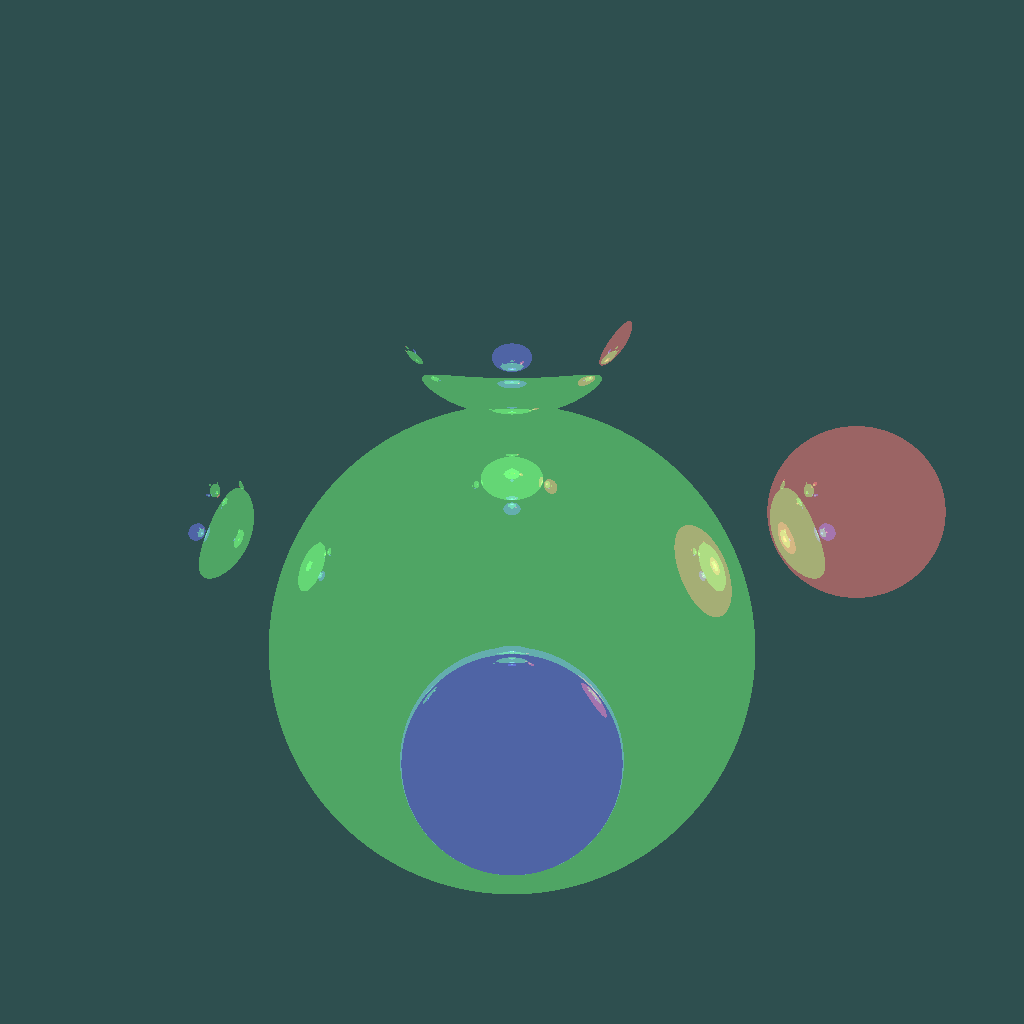
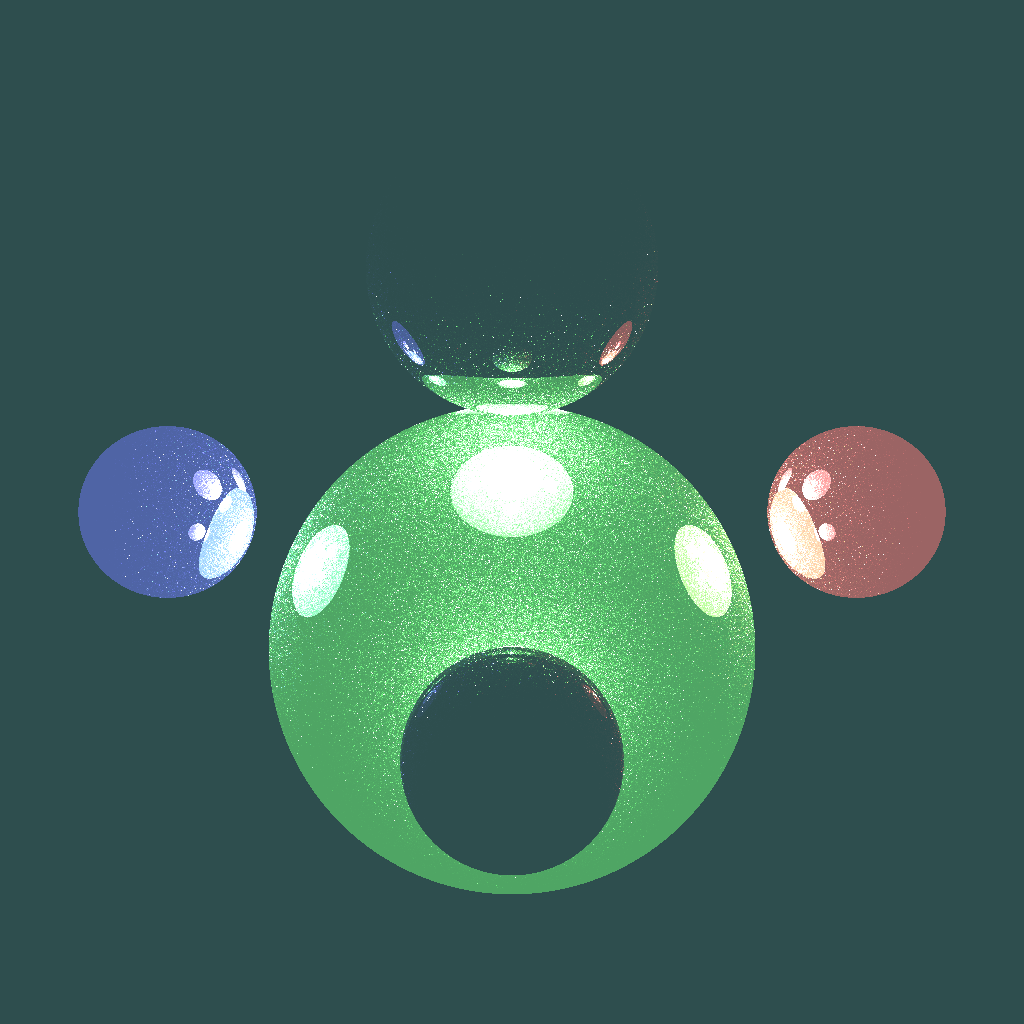
diffuse path tracing with broken emission

diff --git a/core/src/shade.rs b/core/src/shade.rs
@@ -5,15 +5,17 @@ use palette::{LinSrgb};
 pub struct Object {
     pub geo: Sphere,
     pub emission: LinSrgb,
+    pub reflectivity: f32,
 }
 
 impl Object {
-    pub fn new(x: f64, y: f64, z: f64, r: f64, emission: LinSrgb) -> Object {
+    pub fn new(x: f64, y: f64, z: f64, r: f64, emission: LinSrgb, reflectivity: f32) -> Object {
         use ::Point3;
 
         Object {
             geo: Sphere::new(Point3::new(x, y, z), r),
             emission,
+            reflectivity,
         }
     }
 }
@@ -34,8 +36,23 @@ pub fn reflect(input: Unit<Vector3<f64>>, half: Unit<Vector3<f64>>) -> Unit<Vect
     Unit::new_unchecked(input.unwrap() - 2. * (input.dot(half.as_ref())) * half.as_ref())
 }
 
+pub fn cosine_weighted_hemi<R: Rng>(rng: &mut R) -> (f64, Unit<Vector3<f64>>) {
+    use std::f64::consts::PI;
+
+    let u: f64 = rng.gen_range(0., 1.);
+    let r = u.sqrt();
+    let phi = rng.gen_range(0., 2. * PI);
+
+    let x = r * phi.cos();
+    let y = r * phi.sin();
+
+    (r, Unit::new_unchecked(Vector3::new(x, y, (1. - u).sqrt())))
+}
+
 impl World {
-    pub fn sample(&self, ray: Ray, limit: usize) -> (LinSrgb, f64) {
+    pub fn sample<R: Rng>(&self, ray: Ray, limit: usize, rng: &mut R) -> (LinSrgb, f32) {
+        use std::f32::consts::PI;
+
         let hit = self.objects.iter()
             .map(|o| o.geo.cast(ray, o))
             .filter_map(|i| i.filter(|i| i.t > self.margin))
@@ -48,12 +65,31 @@ impl World {
             (None, _) => (self.ambient, 1.),
             (Some(i), 0) => (i.data.emission, 1.),
             (Some(i), _) => {
-                let x = reflect(ray.dir, i.halfway());
-                let p_x = 1.;
+                let x;
+                let p_x;
+                let f_prob;
 
-                let (prior_f, prior_p) = self.sample(Ray::new(ray.origin + i.t * ray.dir.unwrap(), x), limit - 1);
+                let refl = i.data.reflectivity;
+                let not_refl = 1. - refl;
+                if refl > rng.gen_range(0., 1.) {
+                    x = reflect(ray.dir, i.halfway());
+                    p_x = refl;
+                    f_prob = refl;
+                } else {
+                    let (cos_theta, cwh) = cosine_weighted_hemi(rng);
+                    x = Unit::new_unchecked(i.surface() * cwh.unwrap());
+                    let cos_theta_over_pi = cos_theta as f32 / PI;
+                    p_x = not_refl * cos_theta_over_pi;
+                    f_prob = not_refl * cos_theta_over_pi;
+                }
 
-                let f = prior_f + i.data.emission;
+                let (prior_f, prior_p) = self.sample(
+                    Ray::new(ray.origin + i.t * ray.dir.unwrap(), x),
+                    limit - 1,
+                    rng,
+                );
+
+                let f = (prior_f + i.data.emission) * f_prob;
                 let p = p_x * prior_p;
                 (f, p)
             }

diff --git a/src/main.rs b/src/main.rs
@@ -18,12 +18,12 @@ fn main() -> Result<(), Error> {
 
     let world = World {
         objects: vec![
-            Object::new(0., -2., 0., 3., LinSrgb::new(0.05, 0.3, 0.05)),
-            Object::new(0., 3., 0., 1.5, LinSrgb::new(0., 0., 0.)),
-            Object::new(4., 0., 0., 1., LinSrgb::new(0.3, 0.05, 0.05)),
-            Object::new(-4., 0., 0., 1., LinSrgb::new(0., 0., 0.)),
-            Object::new(0., 0., 4., 1., LinSrgb::new(0.05, 0.05, 0.3)),
-            Object::new(0., 0., -4., 1., LinSrgb::new(0., 0., 0.)),
+            Object::new(0., -2., 0., 3., LinSrgb::new(0.05, 0.3, 0.05), 0.75),
+            Object::new(0., 3., 0., 1.5, LinSrgb::new(0., 0., 0.), 0.75),
+            Object::new(4., 0., 0., 1., LinSrgb::new(0.3, 0.05, 0.05), 0.9),
+            Object::new(-4., 0., 0., 1., LinSrgb::new(0.05, 0.05, 0.3), 0.9),
+            Object::new(0., 0., 4., 1., LinSrgb::new(0., 0., 0.), 0.1),
+            Object::new(0., 0., -4., 1., LinSrgb::new(0., 0., 0.), 0.1),
         ],
         ambient: colors::DARKSLATEGREY.into_format::<f32>().into_linear(),
         margin: 0.00001,
@@ -35,6 +35,8 @@ fn main() -> Result<(), Error> {
 
     let mut frames = Vec::with_capacity(FRAMENUM );
     (0..FRAMENUM).into_par_iter().map(|index| {
+        let mut rng = rand::thread_rng();
+
         let mut img = ImgVec::new(vec![Srgb::new(0, 0, 0); size * size], size, size);
         let angle = 2. * PI * (index as f64 / FRAMENUM  as f64);
         let cam = PerspectiveCamera::new(
@@ -51,13 +53,17 @@ fn main() -> Result<(), Error> {
         {
             let mut raster = RasterLayer::new(img.as_mut());
             for (p, v) in raster.pixels_mut() {
-                let ray = match cam.look(p) {
-                    Some(r) => r,
-                    None => continue,
-                };
-                let (mut f, p) = world.sample(ray, 6);
-                f = f / p as f32;
-                *v = Srgb::from_linear(f).into_format();
+                let mut val = LinSrgb::new(0., 0., 0.);
+                let count = 128;
+                for _ in 0..count {
+                    let ray = match cam.look(p) {
+                        Some(r) => r,
+                        None => continue,
+                    };
+                    let (mut f, p) = world.sample(ray, 6, &mut rng);
+                    val = val + f / p as f32;
+                }
+                *v = Srgb::from_linear(val / count as f32).into_format();
             }
         }
 
@@ -79,6 +85,8 @@ fn main() -> Result<(), Error> {
             Pixel::into_raw_slice(&img.buf),
         );
         frame.delay = 100 / 30;
+
+        println!("\tRENDERED FRAME #{}", index);
 
         frame
     }).collect_into_vec(&mut frames);

diff --git a/core/src/lib.rs b/core/src/lib.rs
@@ -6,7 +6,7 @@ extern crate num_traits;
 pub extern crate rand;
 
 
-pub use nalg::{Real, zero, one, Point2, Point3, Unit, Vector3};
+pub use nalg::{Real, zero, one, Point2, Point3, Unit, Vector3, Matrix3};
 pub use imgref::ImgVec;
 pub use nalg::geometry::{Isometry3, Perspective3};
 use ncol::shape::Ball;
@@ -36,6 +36,25 @@ pub struct Impact<T> {
     pub t: f64,
     pub norm: Unit<Vector3<f64>>,
     pub data: T,
+}
+
+impl<T> Impact<T> {
+    pub fn surface(&self) -> Matrix3<f64> {
+        let x_axis = Vector3::new(1., 0., 0.);
+        let y_axis = Vector3::new(0., 1., 0.);
+
+        // TODO: Use proper tangent and bitangent
+
+        let est = if self.norm.dot(&x_axis).abs() > 0.8 {
+            // norm is too close to parallel with x axis, use different axis
+            y_axis
+        } else { x_axis };
+
+        let tan = self.norm.cross(&est);
+        let bitan = self.norm.cross(&tan);
+
+        Matrix3::from_columns(&[tan, bitan, self.norm.unwrap()])
+    }
 }
 
 pub trait Castable {
